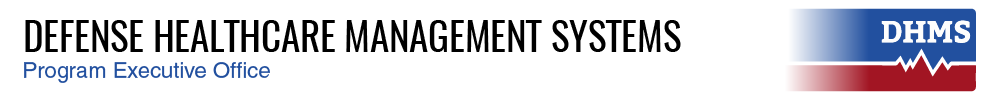
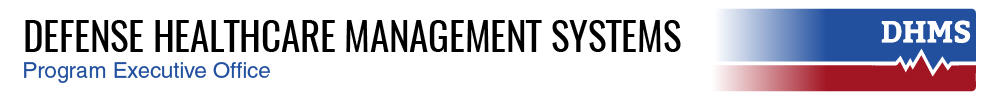
Added CSS to hide nav when not mobile sized

Changed region(s): [[0.713, 0.0594, 0.868, 0.9208]]

diff --git a/src/components/header.js b/src/components/header.js
@@ -11,17 +11,6 @@ import {
   Header as UswdsHeader,
 } from 'uswds-react';
 
-var titleStyle = {
-  color: "#0076d6",
-  fontSize: "350%",
-  textAlign: "center",
-  alignSelf: "right",
-  marginTop: "-2rem",
-  marginBottom: "0rem",
-  marginRight: "30rem",
-  fontFamily: "Sans Sarif"
-}
-
 var linkStyle = {
   color: "#0076d6",
   fontFamily: "Sans Sarif"

diff --git a/gatsby-config.js b/gatsby-config.js
@@ -2,7 +2,7 @@ const path = require('path');
 
 module.exports = {
   siteMetadata: {
-    title: ``,
+    title: `Defense Healthcare Management Systems`,
     header: {
       secondaryLinks: [
         { text: 'Contact Us', link: '/' },

diff --git a/src/components/layout.css b/src/components/layout.css
@@ -37,3 +37,11 @@
   font-size: 10rem;
   width: 100%;
 }
+
+@media all and (min-width: 64em){
+
+  .usa-logo {
+    display:none !important;
+  }
+
+}
